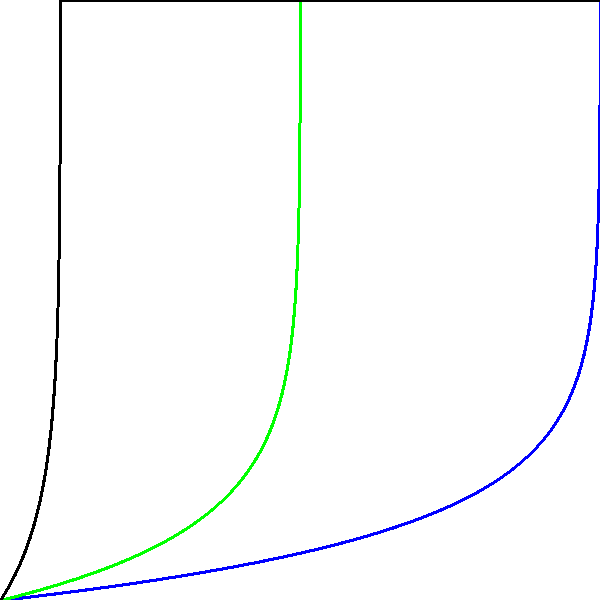
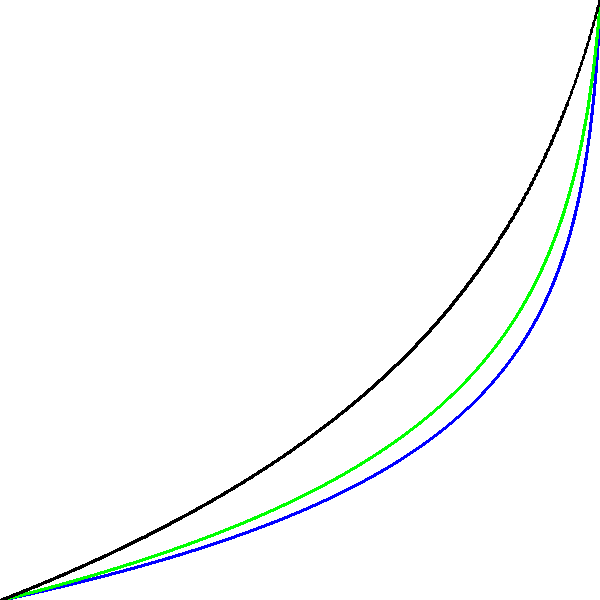
Trying to fix Methods.

diff --git a/MetodoEulerModificado.hpp b/MetodoEulerModificado.hpp
@@ -39,42 +39,96 @@ namespace MetodoEulerModificado {
 	int iteracoes;
 	float precisao = 0.0001;
 	float tempo = 1.f;
+	float h;
+	float solucao_analitica;
+#ifdef USE_OPENCV	
+	cv::Mat graphic;
+#endif
+	/*
+		u 	: 	velocidade relativa de ejeção do combustível
+		dm	:	taxa de ejeção de combustível
+	*/
+	float dm, u, mi, mf;
 	
-	float Derivada(float tempo);
+	std::vector<float> points;
 	
-	void DefinirParametros(float nova_precisao = 0.0001, float novo_tempo = 1.f) {
+	float Derivada(float tempo, float massa);
+	
+
+	void DefinirParametros(float solucao_analitica, float nova_dm, float novo_u, float nova_mi, float nova_mf, float novo_tempo = 1.f, float novo_h = 0.001f, float nova_precisao = 0.0001f) {
+		cout << "Definindo parâmetros" << endl;
 		precisao = nova_precisao;
 		tempo = novo_tempo;
-		cout << "Definindo parâmetros" << endl;
+		u = novo_u;
+		dm = nova_dm;
+		mi = nova_mi;
+		mf = nova_mf;
+		h = novo_h;
+		points.clear();
 	}
 	
-	void Euler(float tempo_aplicado = 1, float *y = NULL) {
-		if (y == NULL) return;
-		float h = tempo_aplicado,
-			erro = 1.f;
-		/*while (erro > precisao) {
-			iteracoes++;
-			*y = *y + h*derivada(tempo_atual+h);
-		}*/
+	void ClearGraphic() {
+#ifdef USE_OPENCV
+		graphic = cv::Mat::zeros(600,600, CV_8UC3);
+		cv::rectangle(graphic, cv::Point(0,0), cv::Point(600,600),cv::Scalar(255,255,255),-1);
+#endif
 	}
 	
-	void Executar() {
-		cout << "Executando Metodo de Euler" << endl;
+	int EulerModificado(float tempo_aplicado = 1.f, float *y = NULL) {
+		if (y == NULL) return 0;
+		float tempo_atual = 0.0f, m = mi;
+		float erro = 1.f;
+		points.push_back(*y);
+		while (tempo_aplicado > tempo_atual) {
+			//cout << *y << " ";
+			tempo_atual+=h;
+			static float y_previsao= *y + h*Derivada(tempo_atual+h,m);
+			*y=*y+ (h/2.f)*( Derivada(tempo_atual,m)+Derivada(tempo_atual+h,m-dm) );
+			//*y = *y + h*Derivada(tempo_atual, m);
+			points.push_back(*y);
+			//cout << *y << endl;
+			m -= dm;
+			++iteracoes;
+		}
+		erro = fabs(*y - solucao_analitica);
+		cout << "erro " << erro << endl;
+		return iteracoes;
+	}
+	
+	int Executar(float *y_retorno = NULL) {
+		cout << "Executando Metodo de Euler Modificado" << endl;
 		float y_final;
-		Euler(tempo,&y_final);
+		EulerModificado(tempo,&y_final);
+		if (y_retorno) *y_retorno = y_final;
 		cout << "tempo " << tempo << " y_final " << y_final << endl;
 		cout << "Levou " << iteracoes << " iteracoes." << endl;
+		return iteracoes;
 	}
 	
 #ifdef USE_OPENCV
-	void MostrarResultados() {
-		cv::Mat lenna = cv::imread("../../../Lenna.png");
-		cv::imshow("Lenna", lenna);
-		cv::waitKey(0);
+	void MostrarResultados(const cv::Scalar &color) {
+		//cv::Mat lenna = cv::imread("../../../Lenna.png");
+		//cv::imshow("Lenna", lenna);
+		
+		
+		float maxy, miny, deltay;
+		maxy = *max_element(points.begin(),points.end());
+		miny = *min_element(points.begin(),points.end());
+		cout << "Max min " << maxy << " " << miny << endl;
+		deltay = maxy-miny;
+		float x = 0, y = points[0];
+		for(int i=0; i<points.size()-1;++i) {
+			cv::Point2f p((i*600.f/points.size()),(1.f-((points[i]-miny)/deltay))*600.f), p2((i+1)*600.f/points.size(),(1.f-((points[i+1]-miny)/deltay))*600.f);
+			cv::line(graphic,p2,p,color, 2);
+		}
+		//cv::line(graphic,cv::Point2f(0,0),cv::Point2f(100,100),cor, 2);
+		cv::imshow("Grafico", graphic);
+		while(cv::waitKey(0) != 27);
 	}
 #endif
 	
-	void SalvarResultados() {
+	void SalvarResultados(std::string nome) {
+		cv::imwrite(nome,graphic);
 		cout << "Salvando resultados" << endl;
 	}
 

diff --git a/MetodoEuler.hpp b/MetodoEuler.hpp
@@ -24,7 +24,7 @@ Inicio
 			Se erro>=0.0001 então
 				h = h/4
 			Senão
-				Retorna y, qntd_loops
+				Retorna y, qntd_loops	
 			Fim-se
 		Fim-Enquanto
 	Fim
@@ -39,33 +39,37 @@ namespace MetodoEuler {
 	float tempo = 1.f;
 	float h;
 	float solucao_analitica;
-	
+#ifdef USE_OPENCV	
 	cv::Mat graphic;
+#endif
 	/*
 		u 	: 	velocidade relativa de ejeção do combustível
 		dm	:	taxa de ejeção de combustível
 	*/
-	float dm, u, mi;
+	float dm, u, mi, mf;
 	
 	std::vector<float> points;
 	
 	float Derivada(float tempo, float massa);
 	
 
-	void DefinirParametros(float solucao_analitica, float nova_dm, float novo_u, float nova_mi, float novo_tempo = 1.f, float novo_h = 0.001f, float nova_precisao = 0.0001f) {
+	void DefinirParametros(float solucao_analitica, float nova_dm, float novo_u, float nova_mi, float nova_mf, float novo_tempo = 1.f, float novo_h = 0.001f, float nova_precisao = 0.0001f) {
 		cout << "Definindo parâmetros" << endl;
 		precisao = nova_precisao;
 		tempo = novo_tempo;
 		u = novo_u;
 		dm = nova_dm;
 		mi = nova_mi;
+		mf = nova_mf;
 		h = novo_h;
 		points.clear();
 	}
 	
 	void ClearGraphic() {
+#ifdef USE_OPENCV
 		graphic = cv::Mat::zeros(600,600, CV_8UC3);
 		cv::rectangle(graphic, cv::Point(0,0), cv::Point(600,600),cv::Scalar(255,255,255),-1);
+#endif
 	}
 	
 	/*int Euler(float tempo_aplicado = 1.f, float *y = NULL) {
@@ -93,7 +97,8 @@ namespace MetodoEuler {
 		float tempo_atual = 0.0f, m = mi;
 		float erro = 1.f;
 		points.push_back(*y);
-		while (tempo_aplicado > tempo_atual) {
+		//while (tempo_aplicado > tempo_atual) {
+		while (m > mf) {
 			//cout << *y << " ";
 			tempo_atual+=h;
 			*y = *y + h*Derivada(tempo_atual, m);
@@ -130,7 +135,10 @@ namespace MetodoEuler {
 		deltay = maxy-miny;
 		float x = 0, y = points[0];
 		for(int i=0; i<points.size()-1;++i) {
-			cv::Point2f p((i*600.f/points.size()),(1.f-((points[i]-miny)/deltay))*600.f), p2((i+1)*600.f/points.size(),(1.f-((points[i+1]-miny)/deltay))*600.f);
+			cv::Point2f p((i*600.f/points.size()),
+			(1.f-((points[i]-miny)/deltay))*600.f),
+			p2((i+1)*600.f/points.size(),
+			(1.f-((points[i+1]-miny)/deltay))*600.f);
 			cv::line(graphic,p2,p,color, 2);
 		}
 		//cv::line(graphic,cv::Point2f(0,0),cv::Point2f(100,100),cor, 2);

diff --git a/main.cpp b/main.cpp
@@ -51,7 +51,15 @@ Saida
 */
 float MetodoEuler::Derivada(float tempo, float massa) {
 	float dv;
-	if (massa > dm) {
+	if (massa > mf) {
+		dv = u*dm/massa;
+	} else dv = 0.f;
+	return dv;
+}
+
+float MetodoEulerModificado::Derivada(float tempo, float massa) {
+	float dv;
+	if (massa > mf) {
 		dv = u*dm/massa;
 	} else dv = 0.f;
 	return dv;
@@ -101,19 +109,34 @@ int main (int args, char* argv[]) {
 #endif
 
 #ifdef USE_OPENCV
+	evf = vi;
 	mi = 50000.f;
+	vf = ResultadoAnalitico(u, mi, mf, vi);
 	MetodoEuler::DefinirParametros(vf,dm,u,mi,t,0.1);
 	MetodoEuler::Executar(&vi);
 	MetodoEuler::MostrarResultados(cv::Scalar(0,255,0));
 	//MetodoEuler::SalvarResultados("teste2.png");
 	
+	evf = vi;
 	mi = 10000.f;
+	vf = ResultadoAnalitico(u, mi, mf, vi);
 	MetodoEuler::DefinirParametros(vf,dm,u,mi,t,0.1);
 	MetodoEuler::Executar(&vi);
 	MetodoEuler::MostrarResultados(cv::Scalar(0,0,0));
 	MetodoEuler::SalvarResultados("teste3.png");
 #endif	
 	cout << endl << endl;
+	
+	evf = vi;
+	mi = 100000.f;
+	cout << endl << "Metodo de Euler Modificado" << endl << endl;
+	MetodoEulerModificado::DefinirParametros(vf,dm,u,mi,t,0.1);
+	MetodoEulerModificado::ClearGraphic();
+	iteracoes = MetodoEulerModificado::Executar(&evf);
+#ifdef USE_OPENCV
+	MetodoEulerModificado::MostrarResultados(cv::Scalar(255,0,0));
+	MetodoEulerModificado::SalvarResultados("em1.png");
+#endif
 
 	return 0;
 }

diff --git a/MasterHeader.hpp b/MasterHeader.hpp
@@ -13,3 +13,4 @@ using namespace std;
 	#include <opencv2/highgui.hpp>
 	#include <opencv2/imgproc.hpp>
 #endif
+
